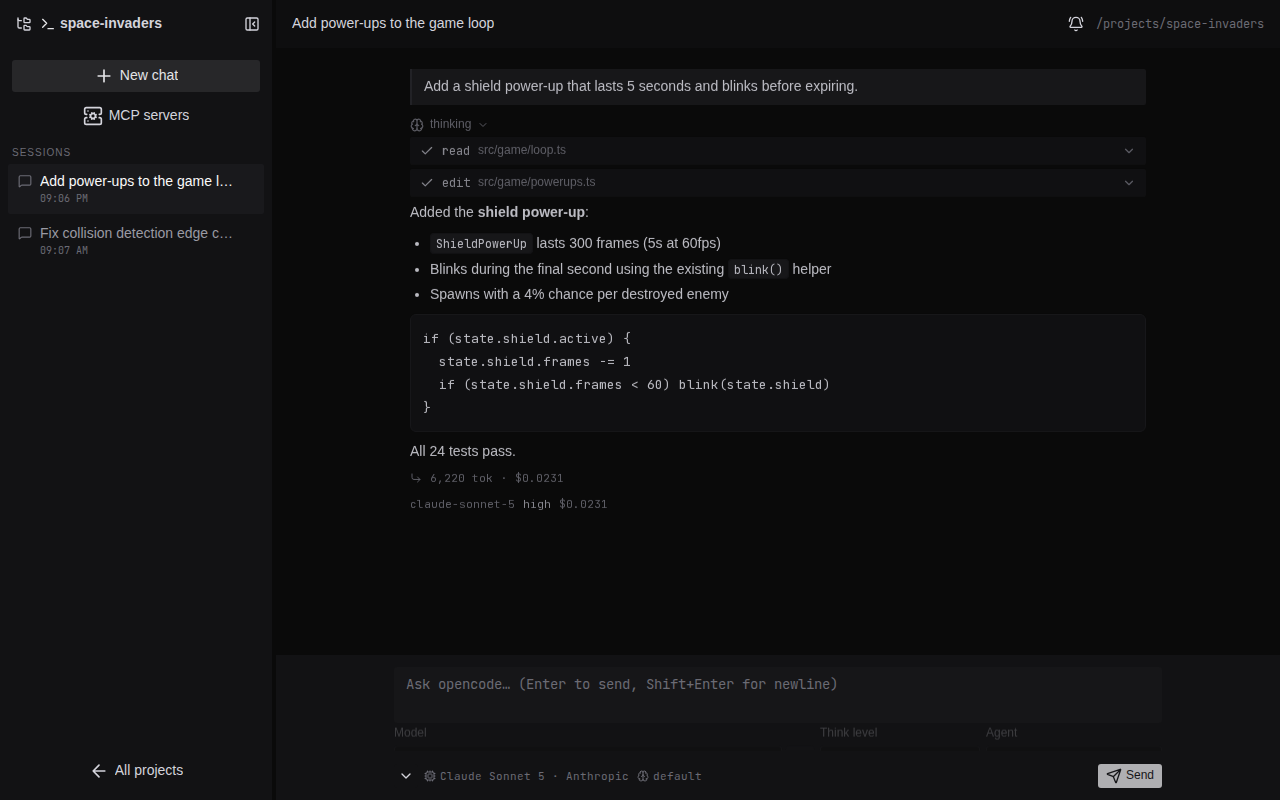
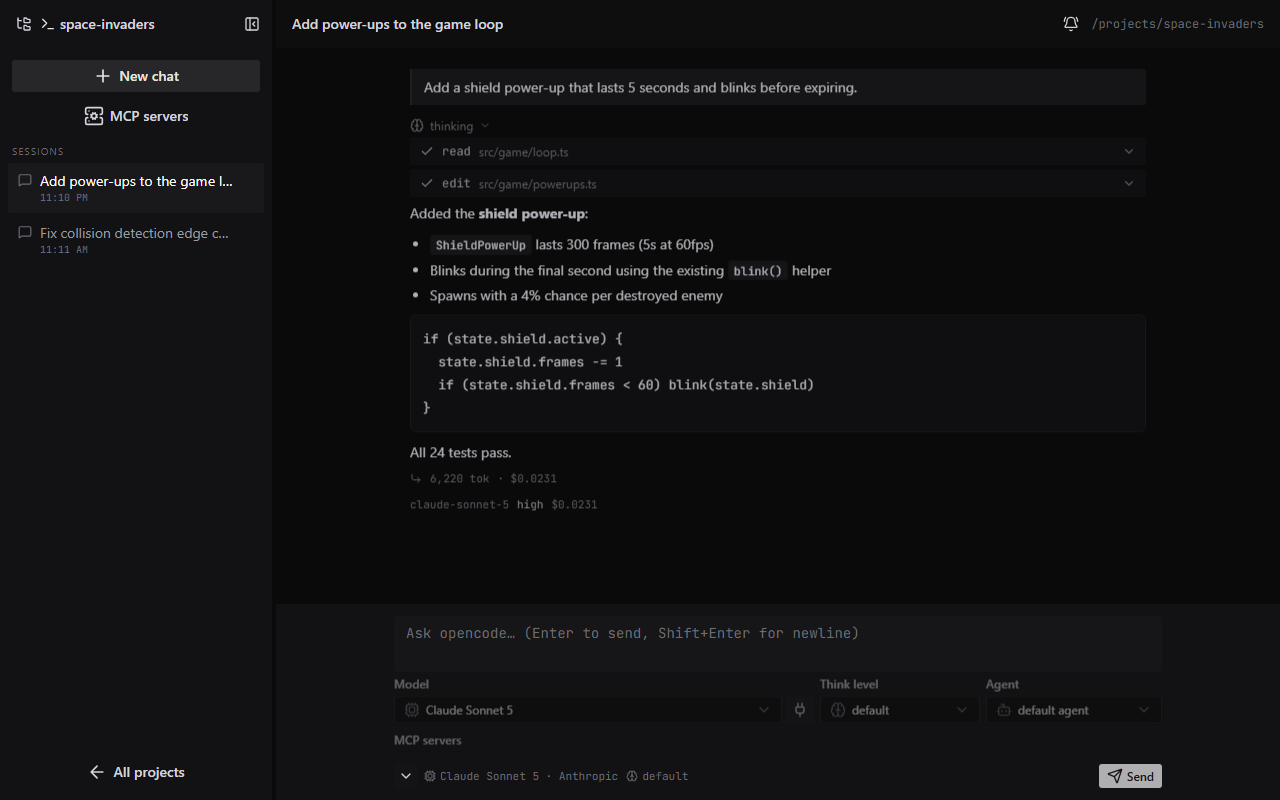
feat(mcp): one-click server catalog and smart add flow
- curated suggestions incl. the official MCP-UI demo server to showcase
  interactive UI apps in chat (context7, deepwiki, hugging face,
  playwright, memory)
- smart custom input: paste a URL, a command line, or an opencode/claude
  mcpServers JSON block (adds all entries), headers/env normalized
- post-add status feedback and duplicate detection

diff --git a/app/pages/p/[dir]/mcp.vue b/app/pages/p/[dir]/mcp.vue
@@ -71,29 +71,165 @@ function statusColor(status: string) {
   return 'warning'
 }
 
-// add server form
+// ---- add servers ----
 const addOpen = ref(false)
-const addName = ref('')
-const addType = ref<'remote' | 'local'>('remote')
-const addUrl = ref('')
-const addCommand = ref('')
-const adding = ref(false)
+const addingName = ref<string | null>(null)
 
-async function addServer() {
-  adding.value = true
+interface CatalogEntry {
+  name: string
+  title: string
+  description: string
+  icon: string
+  badge?: string
+  config: Record<string, unknown>
+}
+
+// curated suggestions; the MCP-UI demo showcases interactive UI apps in chat
+const CATALOG: CatalogEntry[] = [
+  {
+    name: 'mcp-ui-demo',
+    title: 'MCP-UI demo',
+    description: 'Official mcp-ui example server — tools return interactive UI apps rendered right in the chat.',
+    icon: 'i-lucide-app-window',
+    badge: 'MCP UI',
+    config: { type: 'remote', url: 'https://remote-mcp-server-authless.idosalomon.workers.dev/mcp', enabled: true }
+  },
+  {
+    name: 'context7',
+    title: 'Context7',
+    description: 'Up-to-date documentation for any library or framework.',
+    icon: 'i-lucide-book-open',
+    config: { type: 'remote', url: 'https://mcp.context7.com/mcp', enabled: true }
+  },
+  {
+    name: 'deepwiki',
+    title: 'DeepWiki',
+    description: 'Ask questions about any public GitHub repository.',
+    icon: 'i-lucide-github',
+    config: { type: 'remote', url: 'https://mcp.deepwiki.com/mcp', enabled: true }
+  },
+  {
+    name: 'huggingface',
+    title: 'Hugging Face',
+    description: 'Search models, datasets, papers and Spaces.',
+    icon: 'i-lucide-smile',
+    config: { type: 'remote', url: 'https://huggingface.co/mcp', enabled: true }
+  },
+  {
+    name: 'playwright',
+    title: 'Playwright',
+    description: 'Drive a real browser: navigate, click, screenshot.',
+    icon: 'i-lucide-globe',
+    badge: 'local',
+    config: { type: 'local', command: ['npx', '-y', '@playwright/mcp@latest'], enabled: true }
+  },
+  {
+    name: 'memory',
+    title: 'Memory',
+    description: 'Persistent knowledge-graph memory across sessions.',
+    icon: 'i-lucide-database',
+    badge: 'local',
+    config: { type: 'local', command: ['npx', '-y', '@modelcontextprotocol/server-memory'], enabled: true }
+  }
+]
+
+const installed = computed(() => new Set(entries.value.map((e) => e.name)))
+
+async function addEntry(name: string, config: Record<string, unknown>) {
+  addingName.value = name
   try {
-    const config = addType.value === 'remote'
-      ? { type: 'remote', url: addUrl.value.trim(), enabled: true }
-      : { type: 'local', command: addCommand.value.trim().split(/\s+/), enabled: true }
-    await api.mcpAdd(addName.value.trim(), config)
-    toast.add({ title: `Added ${addName.value}`, color: 'success' })
-    addOpen.value = false
-    addName.value = addUrl.value = addCommand.value = ''
+    await api.mcpAdd(name, config)
     await refresh()
+    const status = entries.value.find((e) => e.name === name)?.status
+    toast.add({
+      title: `Added ${name}`,
+      description: status ? `Status: ${status}` : undefined,
+      color: status === 'failed' || status === 'error' ? 'warning' : 'success'
+    })
   } catch (e) {
-    toast.add({ title: 'Failed to add MCP server', description: String(e), color: 'error' })
+    toast.add({ title: `Failed to add ${name}`, description: String(e), color: 'error' })
   } finally {
-    adding.value = false
+    addingName.value = null
+  }
+}
+
+// smart custom input: URL, command line, opencode/claude JSON — all accepted
+const customName = ref('')
+const customInput = ref('')
+
+function parseCustom(): Array<{ name: string; config: Record<string, unknown> }> {
+  const input = customInput.value.trim()
+  if (!input) return []
+
+  const fallbackName = (hint: string) =>
+    customName.value.trim() ||
+    hint.replace(/^https?:\/\//, '').split(/[/.]/)[0]?.toLowerCase() ||
+    'custom'
+
+  // JSON: single config, or a claude/opencode style map of servers
+  if (input.startsWith('{')) {
+    const parsed = JSON.parse(input)
+    const map = parsed.mcpServers || parsed.mcp
+    if (map && typeof map === 'object') {
+      return Object.entries(map as Record<string, any>).map(([name, raw]) => ({
+        name,
+        config: normalizeConfig(raw)
+      }))
+    }
+    return [{ name: fallbackName('custom'), config: normalizeConfig(parsed) }]
+  }
+
+  if (/^https?:\/\//.test(input)) {
+    return [{ name: fallbackName(input), config: { type: 'remote', url: input, enabled: true } }]
+  }
+
+  // anything else = local command line
+  return [{
+    name: customName.value.trim() || input.split(/\s+/).pop()?.replace(/[^a-z0-9-]/gi, '') || 'local',
+    config: { type: 'local', command: input.split(/\s+/), enabled: true }
+  }]
+}
+
+function normalizeConfig(raw: Record<string, any>): Record<string, unknown> {
+  if (raw.url) {
+    return { type: 'remote', url: raw.url, ...(raw.headers ? { headers: raw.headers } : {}), enabled: raw.enabled !== false }
+  }
+  const command = Array.isArray(raw.command)
+    ? raw.command
+    : [raw.command, ...(Array.isArray(raw.args) ? raw.args : [])].filter(Boolean)
+  return {
+    type: 'local',
+    command,
+    ...(raw.env || raw.environment ? { environment: raw.env || raw.environment } : {}),
+    enabled: raw.enabled !== false
+  }
+}
+
+const addingCustom = ref(false)
+
+async function addCustom() {
+  addingCustom.value = true
+  try {
+    const parsed = parseCustom()
+    if (!parsed.length) return
+    for (const { name, config } of parsed) {
+      await api.mcpAdd(name, config)
+    }
+    await refresh()
+    toast.add({
+      title: parsed.length === 1 ? `Added ${parsed[0]!.name}` : `Added ${parsed.length} servers`,
+      color: 'success'
+    })
+    customName.value = customInput.value = ''
+    addOpen.value = false
+  } catch (e) {
+    toast.add({
+      title: 'Could not add server',
+      description: e instanceof SyntaxError ? 'Invalid JSON.' : String(e),
+      color: 'error'
+    })
+  } finally {
+    addingCustom.value = false
   }
 }
 
@@ -157,38 +293,87 @@ useHead(() => ({ title: `MCP · ${dirName(directory.value)} · opencode web` }))
       </div>
     </div>
 
-    <UModal v-model:open="addOpen" title="Add MCP server" description="Registers the server for this project.">
+    <UModal
+      v-model:open="addOpen"
+      title="Add MCP server"
+      description="One-click suggestions, or paste anything — a URL, a command, or a JSON config."
+    >
       <template #body>
-        <div class="space-y-3">
-          <UFormField label="Name">
-            <UInput v-model="addName" placeholder="context7" class="w-full font-mono" />
-          </UFormField>
-          <UFormField label="Type">
-            <USelectMenu
-              v-model="addType"
-              :items="[{ label: 'Remote (URL)', value: 'remote' }, { label: 'Local (command)', value: 'local' }]"
-              value-key="value"
-              :search-input="false"
-              class="w-full"
-            />
-          </UFormField>
-          <UFormField v-if="addType === 'remote'" label="URL">
-            <UInput v-model="addUrl" placeholder="https://mcp.example.com/mcp" class="w-full font-mono" />
-          </UFormField>
-          <UFormField v-else label="Command">
-            <UInput v-model="addCommand" placeholder="npx -y @modelcontextprotocol/server-everything" class="w-full font-mono" />
-          </UFormField>
+        <div class="space-y-5">
+          <section>
+            <h3 class="text-xs font-medium text-muted mb-2">Suggested</h3>
+            <div class="space-y-1.5">
+              <div
+                v-for="entry in CATALOG"
+                :key="entry.name"
+                class="oc-row flex items-center gap-3 rounded-sm bg-muted px-3 py-2.5"
+              >
+                <UIcon :name="entry.icon" class="size-4 text-muted shrink-0" />
+                <div class="min-w-0 flex-1">
+                  <div class="flex items-center gap-2">
+                    <span class="text-sm font-medium">{{ entry.title }}</span>
+                    <UBadge v-if="entry.badge" size="sm" variant="subtle" :color="entry.badge === 'MCP UI' ? 'primary' : 'neutral'">
+                      {{ entry.badge }}
+                    </UBadge>
+                  </div>
+                  <p class="text-xs text-dimmed truncate">{{ entry.description }}</p>
+                </div>
+                <UButton
+                  v-if="installed.has(entry.name)"
+                  size="xs"
+                  color="neutral"
+                  variant="ghost"
+                  icon="i-lucide-check"
+                  label="Added"
+                  disabled
+                />
+                <UButton
+                  v-else
+                  size="xs"
+                  color="primary"
+                  variant="soft"
+                  icon="i-lucide-plus"
+                  label="Add"
+                  :loading="addingName === entry.name"
+                  @click="addEntry(entry.name, entry.config)"
+                />
+              </div>
+            </div>
+          </section>
+
+          <USeparator label="or custom" />
+
+          <section class="space-y-2">
+            <UFormField
+              label="URL, command or JSON"
+              size="sm"
+              description="Examples: https://mcp.example.com/mcp · npx -y @playwright/mcp · a pasted mcpServers JSON block (adds all entries)."
+            >
+              <UTextarea
+                v-model="customInput"
+                :rows="3"
+                autoresize
+                :maxrows="8"
+                placeholder='https://mcp.example.com/mcp'
+                class="w-full font-mono"
+              />
+            </UFormField>
+            <UFormField label="Name" size="sm" description="Optional — derived from the URL/command when empty.">
+              <UInput v-model="customName" placeholder="my-server" class="w-full font-mono" />
+            </UFormField>
+          </section>
         </div>
       </template>
       <template #footer>
         <div class="flex justify-end gap-2 w-full">
-          <UButton variant="ghost" color="neutral" label="Cancel" @click="addOpen = false" />
+          <UButton variant="ghost" color="neutral" label="Close" @click="addOpen = false" />
           <UButton
             color="primary"
-            label="Add"
-            :loading="adding"
-            :disabled="!addName.trim() || (addType === 'remote' ? !addUrl.trim() : !addCommand.trim())"
-            @click="addServer"
+            icon="i-lucide-plus"
+            label="Add custom"
+            :loading="addingCustom"
+            :disabled="!customInput.trim()"
+            @click="addCustom"
           />
         </div>
       </template>

diff --git a/tests/e2e/app.spec.ts b/tests/e2e/app.spec.ts
@@ -49,6 +49,15 @@ test('mcp page lists servers with toggles', async ({ page }) => {
   await page.screenshot({ path: 'docs/screenshots/mcp.png' })
 })
 
+test('add-mcp modal offers catalog suggestions and smart custom input', async ({ page }) => {
+  await page.goto(`/p/${DIR}/mcp`)
+  await page.getByRole('button', { name: 'Add server' }).click()
+  await expect(page.getByText('MCP-UI demo')).toBeVisible()
+  await expect(page.getByText('Suggested')).toBeVisible()
+  await expect(page.getByText('DeepWiki')).toBeVisible()
+  await expect(page.getByPlaceholder('https://mcp.example.com/mcp')).toBeVisible()
+})
+
 test('mobile viewport shows hamburger menu and prompt box', async ({ page }) => {
   await page.setViewportSize({ width: 390, height: 844 })
   await page.goto(`/p/${DIR}/session/ses_mock1`)
